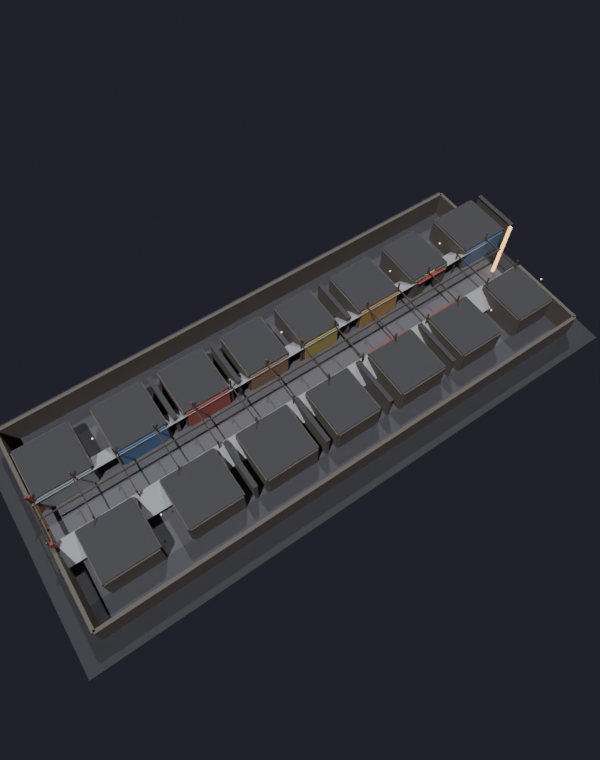
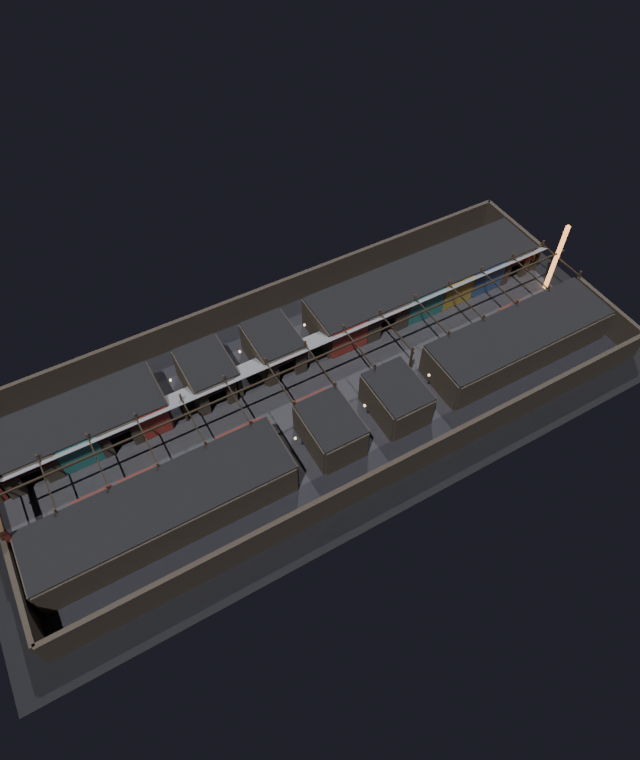
コースを連続ファサード＋切妻アーケード屋根に作り直し（店間の壁撤去・屋根修正）。1本に整理 cache v=7

diff --git a/index.html b/index.html
@@ -1,6 +1,6 @@
 <!doctype html><html lang="ja"><head><meta charset="utf-8">
 <meta name="viewport" content="width=device-width, initial-scale=1">
-<title>八咫商店街 ─ 3Dアセット ビューア（393種）</title>
+<title>八咫商店街 ─ 3Dアセット ビューア（391種）</title>
 <script type="module" src="https://cdn.jsdelivr.net/npm/@google/model-viewer@3.5.0/dist/model-viewer.min.js"></script>
 <style>
   :root{--bg:#0e0f14;--card:#171922;--line:#2b2f3a;--ink:#e7e2d8;--sub:#8a90a0;--accent:#c2453b}
@@ -52,7 +52,7 @@
 <div id="app" style="display:none">
 <header>
   <h1>八咫商店街 ─ 神隠しの夜　<b>3Dアセット ビューア</b></h1>
-  <p class="lead">手続き生成（Blender）の和ホラー商店街プロップ <b>393種</b>。表示されたモデルは<b>自動でぐるぐる回転</b>、<b>ドラッグでも回せます</b>（スクロールでズーム）。</p>
+  <p class="lead">手続き生成（Blender）の和ホラー商店街プロップ <b>391種</b>。表示されたモデルは<b>自動でぐるぐる回転</b>、<b>ドラッグでも回せます</b>（スクロールでズーム）。</p>
   <p class="lead" style="margin-top:7px"><a href="explore.html" style="color:var(--accent);text-decoration:none;font-weight:600">🚶 組み上げ（通りブロック／店舗／神社）を大画面で表示して中を歩く →</a></p>
   <div class="tools">
     <input id="q" placeholder="検索：提灯 / jizo / 人形 …">
@@ -2481,25 +2481,13 @@
         <figcaption><span class="jp">焦茶シャッター</span><span class="key">shutter_shop_brown</span></figcaption>
       </figure>
     </div>
-    <h2 class="sec">batch28 ― ランダムコース（ユニット連結・入るたび違う）<span class="cnt">3</span></h2>
+    <h2 class="sec">batch28 ― アーケード商店街コース（連続ファサード・切妻屋根）<span class="cnt">1</span></h2>
     <div class="grid">
-      <figure class="card" data-name="course_a ランダムコースA">
+      <figure class="card" data-name="course_a アーケード商店街コース">
         <model-viewer class="mv" poster="thumb_course_a.png" camera-controls auto-rotate auto-rotate-delay="0"
           rotation-per-second="36deg" shadow-intensity="0.6" exposure="0.95" interaction-prompt="none"
-          loading="eager" reveal="auto" data-glb="prop_course_a.glb" alt="ランダムコースA"></model-viewer>
-        <figcaption><span class="jp">ランダムコースA</span><span class="key">course_a</span></figcaption>
-      </figure>
-      <figure class="card" data-name="course_b ランダムコースB">
-        <model-viewer class="mv" poster="thumb_course_b.png" camera-controls auto-rotate auto-rotate-delay="0"
-          rotation-per-second="36deg" shadow-intensity="0.6" exposure="0.95" interaction-prompt="none"
-          loading="eager" reveal="auto" data-glb="prop_course_b.glb" alt="ランダムコースB"></model-viewer>
-        <figcaption><span class="jp">ランダムコースB</span><span class="key">course_b</span></figcaption>
-      </figure>
-      <figure class="card" data-name="course_c ランダムコースC">
-        <model-viewer class="mv" poster="thumb_course_c.png" camera-controls auto-rotate auto-rotate-delay="0"
-          rotation-per-second="36deg" shadow-intensity="0.6" exposure="0.95" interaction-prompt="none"
-          loading="eager" reveal="auto" data-glb="prop_course_c.glb" alt="ランダムコースC"></model-viewer>
-        <figcaption><span class="jp">ランダムコースC</span><span class="key">course_c</span></figcaption>
+          loading="eager" reveal="auto" data-glb="prop_course_a.glb" alt="アーケード商店街コース"></model-viewer>
+        <figcaption><span class="jp">アーケード商店街コース</span><span class="key">course_a</span></figcaption>
       </figure>
     </div>
   <div class="empty" id="empty">該当なし</div>
@@ -2526,7 +2514,7 @@
     cards.forEach(c=>{const hit=!t||c.dataset.name.toLowerCase().includes(t);c.style.display=hit?'':'none';if(hit)n++;});
     secs.forEach(s=>{let el=s.nextElementSibling,vis=[...el.children].some(c=>c.style.display!=='none');
       s.style.display=vis?'':'none';el.style.display=vis?'':'none';});
-    empty.style.display=n?'none':'block'; cnt.textContent=n+' / 393 表示';
+    empty.style.display=n?'none':'block'; cnt.textContent=n+' / 391 表示';
   }
   q.addEventListener('input',apply); apply();
 

diff --git a/explore.html b/explore.html
@@ -61,8 +61,8 @@ import * as THREE from 'three';
 import {GLTFLoader} from 'three/addons/loaders/GLTFLoader.js';
 import {OrbitControls} from 'three/addons/controls/OrbitControls.js';
 
-const ITEMS = [{"k": "course_a", "jp": "★ ランダムコース A（入るたび変わる）", "c": "ランダムコース"}, {"k": "course_b", "jp": "★ ランダムコース B（入るたび変わる）", "c": "ランダムコース"}, {"k": "course_c", "jp": "★ ランダムコース C（入るたび変わる）", "c": "ランダムコース"}, {"k": "town_maze", "jp": "迷路コース「5の目」（四隅＋中央の5部屋・中央がゴール）", "c": "迷路コース"}, {"k": "town_yata", "jp": "★ 八咫商店街 まるごと（全体マップ）", "c": "全体マップ"}, {"k": "block_nigiwai", "jp": "賑わい通り ブロック", "c": "通りブロック"}, {"k": "block_sabire", "jp": "寂れ通り ブロック(ホラー)", "c": "通りブロック"}, {"k": "jinja_inari", "jp": "稲荷神社", "c": "神社"}, {"k": "jinja_chinju", "jp": "鎮守の社", "c": "神社"}, {"k": "jinja_hokora", "jp": "祠", "c": "神社"}, {"k": "shop_izakaya", "jp": "居酒屋", "c": "店舗"}, {"k": "shop_yaoya", "jp": "八百屋", "c": "店舗"}, {"k": "shop_sakanaya", "jp": "魚屋", "c": "店舗"}, {"k": "shop_yakkyoku", "jp": "薬局", "c": "店舗"}, {"k": "shop_sento", "jp": "銭湯", "c": "店舗"}, {"k": "shop_kissa", "jp": "喫茶店", "c": "店舗"}, {"k": "shop_ramen", "jp": "ラーメン屋", "c": "店舗"}, {"k": "shop_haikyo", "jp": "廃店", "c": "店舗"}, {"k": "shop_honya", "jp": "本屋", "c": "店舗"}, {"k": "shop_hanaya", "jp": "花屋", "c": "店舗"}, {"k": "shop_sushi", "jp": "寿司屋", "c": "店舗"}, {"k": "shop_sobaya", "jp": "蕎麦屋", "c": "店舗"}, {"k": "shop_wagashi", "jp": "和菓子屋", "c": "店舗"}, {"k": "shop_tokoya", "jp": "床屋", "c": "店舗"}, {"k": "arcade_unit", "jp": "アーケード標準ベイ", "c": "アーケード"}, {"k": "arcade_unit_lit", "jp": "アーケード提灯ベイ", "c": "アーケード"}, {"k": "arcade_gate", "jp": "アーケード入口ゲート", "c": "アーケード"}, {"k": "senbon_torii", "jp": "千本鳥居トンネル", "c": "雰囲気スポット"}, {"k": "chouchin_arch", "jp": "提灯アーチ", "c": "雰囲気スポット"}, {"k": "omenya", "jp": "お面屋台", "c": "雰囲気スポット"}, {"k": "roji_alley", "jp": "路地裏", "c": "雰囲気スポット"}, {"k": "furui_ido", "jp": "古井戸", "c": "雰囲気スポット"}, {"k": "hinomi_yagura", "jp": "火の見櫓", "c": "雰囲気スポット"}, {"k": "roku_jizo", "jp": "六地蔵", "c": "雰囲気スポット"}, {"k": "denwa_box", "jp": "赤い電話ボックス", "c": "雰囲気スポット"}, {"k": "denchu", "jp": "電柱（トランス・電線）", "c": "雰囲気スポット"}, {"k": "ichimatsu", "jp": "市松人形", "c": "雰囲気スポット"}, {"k": "oomon", "jp": "商店街 大門", "c": "シーン・セット"}, {"k": "fumikiri", "jp": "踏切", "c": "シーン・セット"}, {"k": "engai_yokocho", "jp": "縁日横丁", "c": "シーン・セット"}, {"k": "akachochin_yokocho", "jp": "赤提灯横丁", "c": "シーン・セット"}, {"k": "jido_kouen", "jp": "児童公園", "c": "シーン・セット"}, {"k": "bus_tei", "jp": "バス停", "c": "シーン・セット"}, {"k": "bochi", "jp": "墓地の一角", "c": "シーン・セット"}, {"k": "hai_jinja", "jp": "廃神社", "c": "シーン・セット"}], PW = "VR2026";
-const CATS = ["ランダムコース","迷路コース","全体マップ","通りブロック","シーン・セット","雰囲気スポット","神社","店舗","アーケード"];
+const ITEMS = [{"k": "course_a", "jp": "★ アーケード商店街コース（連続ファサード・切妻屋根）", "c": "アーケードコース"}, {"k": "town_maze", "jp": "迷路コース「5の目」（四隅＋中央の5部屋・中央がゴール）", "c": "迷路コース"}, {"k": "town_yata", "jp": "★ 八咫商店街 まるごと（全体マップ）", "c": "全体マップ"}, {"k": "block_nigiwai", "jp": "賑わい通り ブロック", "c": "通りブロック"}, {"k": "block_sabire", "jp": "寂れ通り ブロック(ホラー)", "c": "通りブロック"}, {"k": "jinja_inari", "jp": "稲荷神社", "c": "神社"}, {"k": "jinja_chinju", "jp": "鎮守の社", "c": "神社"}, {"k": "jinja_hokora", "jp": "祠", "c": "神社"}, {"k": "shop_izakaya", "jp": "居酒屋", "c": "店舗"}, {"k": "shop_yaoya", "jp": "八百屋", "c": "店舗"}, {"k": "shop_sakanaya", "jp": "魚屋", "c": "店舗"}, {"k": "shop_yakkyoku", "jp": "薬局", "c": "店舗"}, {"k": "shop_sento", "jp": "銭湯", "c": "店舗"}, {"k": "shop_kissa", "jp": "喫茶店", "c": "店舗"}, {"k": "shop_ramen", "jp": "ラーメン屋", "c": "店舗"}, {"k": "shop_haikyo", "jp": "廃店", "c": "店舗"}, {"k": "shop_honya", "jp": "本屋", "c": "店舗"}, {"k": "shop_hanaya", "jp": "花屋", "c": "店舗"}, {"k": "shop_sushi", "jp": "寿司屋", "c": "店舗"}, {"k": "shop_sobaya", "jp": "蕎麦屋", "c": "店舗"}, {"k": "shop_wagashi", "jp": "和菓子屋", "c": "店舗"}, {"k": "shop_tokoya", "jp": "床屋", "c": "店舗"}, {"k": "arcade_unit", "jp": "アーケード標準ベイ", "c": "アーケード"}, {"k": "arcade_unit_lit", "jp": "アーケード提灯ベイ", "c": "アーケード"}, {"k": "arcade_gate", "jp": "アーケード入口ゲート", "c": "アーケード"}, {"k": "senbon_torii", "jp": "千本鳥居トンネル", "c": "雰囲気スポット"}, {"k": "chouchin_arch", "jp": "提灯アーチ", "c": "雰囲気スポット"}, {"k": "omenya", "jp": "お面屋台", "c": "雰囲気スポット"}, {"k": "roji_alley", "jp": "路地裏", "c": "雰囲気スポット"}, {"k": "furui_ido", "jp": "古井戸", "c": "雰囲気スポット"}, {"k": "hinomi_yagura", "jp": "火の見櫓", "c": "雰囲気スポット"}, {"k": "roku_jizo", "jp": "六地蔵", "c": "雰囲気スポット"}, {"k": "denwa_box", "jp": "赤い電話ボックス", "c": "雰囲気スポット"}, {"k": "denchu", "jp": "電柱（トランス・電線）", "c": "雰囲気スポット"}, {"k": "ichimatsu", "jp": "市松人形", "c": "雰囲気スポット"}, {"k": "oomon", "jp": "商店街 大門", "c": "シーン・セット"}, {"k": "fumikiri", "jp": "踏切", "c": "シーン・セット"}, {"k": "engai_yokocho", "jp": "縁日横丁", "c": "シーン・セット"}, {"k": "akachochin_yokocho", "jp": "赤提灯横丁", "c": "シーン・セット"}, {"k": "jido_kouen", "jp": "児童公園", "c": "シーン・セット"}, {"k": "bus_tei", "jp": "バス停", "c": "シーン・セット"}, {"k": "bochi", "jp": "墓地の一角", "c": "シーン・セット"}, {"k": "hai_jinja", "jp": "廃神社", "c": "シーン・セット"}], PW = "VR2026";
+const CATS = ["アーケードコース","迷路コース","全体マップ","通りブロック","シーン・セット","雰囲気スポット","神社","店舗","アーケード"];
 
 // ---- ゲート ----
 const gate=document.getElementById('gate'),app=document.getElementById('app'),gp=document.getElementById('gp'),gerr=document.getElementById('gerr');
@@ -113,7 +113,7 @@ function open3d(it){
   loadEl.style.display='flex';
   if(!renderer) initThree();
   if(current){ scene.remove(current); current=null; }
-  loader.load('prop_'+it.k+'.glb?v=6',(g)=>{
+  loader.load('prop_'+it.k+'.glb?v=7',(g)=>{
     current=g.scene; scene.add(current);
     box=new THREE.Box3().setFromObject(current);
     const size=box.getSize(new THREE.Vector3()), ctr=box.getCenter(new THREE.Vector3());